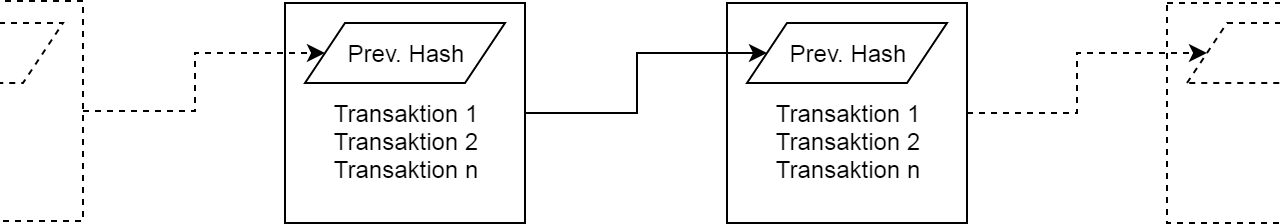
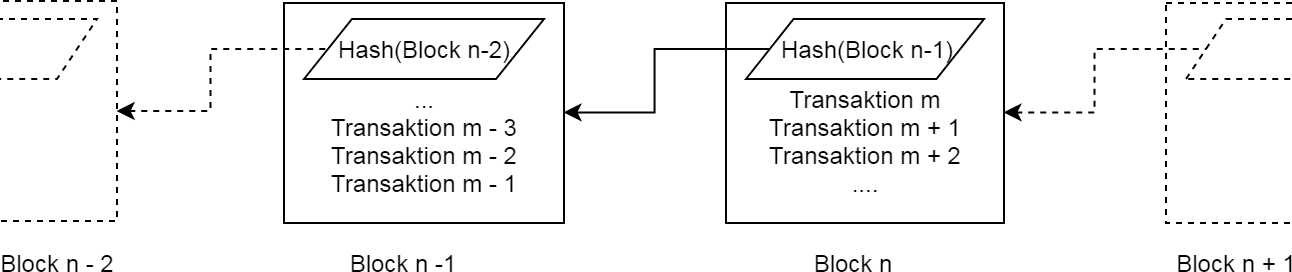
Updates from ShareLaTeX

diff --git a/022_blockchain.tex b/022_blockchain.tex
@@ -1,33 +1,41 @@
 \subsection{Blockchain}
 \label{sec:sota_blockchain}
 
-    Quellen: \cite{Dorri2016}\cite{Conoscenti2016}\cite{Greenspan2015}\cite{ISO307}\cite{Kshetri2017}\cite{Nakamoto2008}\cite{Underwood2016}\cite{Vukolic2016}\cite{Vukolic2017}\cite{Wuest2017}\cite{Zheng2017}
+    {\footnotesize Quellen: \cite{Dorri2016}\cite{Conoscenti2016}\cite{Greenspan2015}\cite{ISO307}\cite{Kshetri2017}\cite{Nakamoto2008}\cite{Underwood2016}\cite{Vukolic2016}\cite{Vukolic2017}\cite{Wuest2017}\cite{Zheng2017}}
     
-    \subsubsection{Einführung in das Konzept}
-    \label{sec:sota_blockchain_introduction}
     Eine Blockchain ist in ihrer Essenz eine immer länger werdende, unveränderbare, öffentliche Kette von Transaktionen, die dezentral gespeichert wird (s. \fref{fig:bc_highlvl}). 
-    
+    \smallskip
     \begin{figure}[H]
     	\centering
     	\includegraphics[width=\textwidth]{graphics/bc_highlvl.png}
-    	\caption{Abstrakte Darstellung einer Blockchain}
+    	\caption[Abstrakte Darstellung einer Blockchain]{Abstrakte Darstellung einer Blockchain. Jeder neu hinzugefügte Block (hier immer rechts angehängt) enthält eine Referenz auf den Vorigen mittels dessen Hashwert.}
     	\label{fig:bc_highlvl}
     \end{figure}
-    \noindent Erstmals 2008 von Satoshi Nakamoto, ursprünglich als Peer-to-Peer Electronic Cash System ,,Bitcoin`` (heute als eine sogenannte Kryptowährung bekannt) erfunden, fand die Technologie aufgrund ihrer Eigenschaften wie ihres dezentralen, anonymen Konzepts schnell viele Sympathisanten. 
+    \todo[color=yellow]{Transaktionen in m umbenennen (zu Hause}
+    \noindent Erstmals 2008 von Satoshi Nakamoto, ursprünglich als Peer-to-Peer Electronic Cash System ,,Bitcoin``
+    \!\footnote{Heute werden Bitcoin, Ether, Ripple und andere als digitale Zahlungsmittel als sogennante Kryptowährung bezeichnet} 
+    erfunden, erregte die Technologie aufgrund ihrer Eigenschaften wie ihres dezentralen, anonymen Konzepts schnell Aufmerksamkeit. 
     Bitcoin ist die erste populäre digitale Währung, die ohne zentrale Autorität wie beispielsweise einer \gls{ttp} das in \fref{sec:sota_doublespend} vorgestellte Double-Spending Problem lösen sollte\cite{Nakamoto2008}. 
-    Übertragen auf Bitcoin bedeutet es, dass ein Empfänger einer Transaktion sichergehen können muss, dass der vorige Besitzer den Bitcoin oder den Bruchteil dessen vorher nicht schon einmal an einen anderen Empfänger gesendet hat.
+    Übertragen auf Bitcoin bedeutet es, dass ein Empfänger einer Transaktion sichergehen können muss, dass der vorige Besitzer den Bitcoin oder den Bruchteil dessen vorher nicht schon einmal erfolgreicht an einen anderen Empfänger gesendet hat.
     Dies wird mittels kryptographischem Beweis, welcher im folgenden Abschnitt genauer betrachtet wird, anstatt des laut \citeauthor{Nakamoto2008} vorstellten mangelhaften Modells der \gls{ttp}, welche stets einen Single Point of Failure
     \!\footnote{Ein Single Point of Failure stellt beipsielsweise eine Bank im Zahlungsverkehr dar.
-    Fällt die Bank beispsielsweise aus irgendeinem Grund aus, haben deren Kunden keine Möglichkeit mehr Überweisungen von und zu ihren Konten zu tätigen.}
+    Fällt die Bank beispsielsweise aus irgendeinem Grund aus oder wird kompromittiert, haben deren Kunden keine Möglichkeit mehr sicher Überweisungen von und zu ihren Konten zu tätigen.}
     darstellt, gelöst. 
-    Das Konzept ermöglicht es somit zwei Entitäten, die sich gegenseitig nicht zwingend vertrauen müssen, um eine sichere (im Sinne der Vertraulichkeit) direkte Transaktion miteinander durchzuführen.
+    Das Konzept ermöglicht es somit zwei Entitäten, auch wenn sie sich gegenseitig nicht vertrauen, eine sichere (im Sinne der Vertraulichkeit) direkte Transaktion miteinander durchzuführen.
     
-    \noindent Grundlegend ist die Blockchain eine verteilte Datenstruktur, die zwischen den Mitgliedern eines Netzwerkes repliziert und geteilt wird\cite{Christidis2016}.
-    Die Knoten des Netzwerkes (genannt ,,Miner'`) fügen validierte, gegenseitig abgestimmte Transaktionen zwischen Teilnehmern, die zu Blöcken gebündelt werden.
-    Die Blockchain beinhaltet das maßgebliche ,,Hauptbuch'` von Transaktionen, welches im Endeffekt festlegt, wem was gehört.\todo[color=yellow]{meh}
-    Dieses ,,Hauptbuch'` ist ein Log, dessen Einträge mit Zeitstempeln jeweils als Blöcke zusammengefasst werden.
-    Das System ist so lange sicher, wie ,,ehrliche'` Knoten gemeinsam mehr Rechenleistung als eventuell zusammenarbeitende Angreifer haben\cite{Nakamoto2008}.
+    \subsubsection{Einführung in das Konzept}
+    \label{sec:sota_blockchain_introduction}
     
+    Grundlegend ist die Blockchain eine verteilte Datenstruktur, die zwischen den Mitgliedern eines Netzwerkes repliziert und geteilt wird\cite{Christidis2016}.
+    Die Blockchain beinhaltet das maßgebliche ,,Hauptbuch'` von vergangenen Transaktionen, ein Log, dessen Einträge mit Zeitstempeln jeweils zu unterschiedlichen Blöcken zusammengefasst werden. 
+    
+    Der aktuelle Zustand ergibt sich durch das Zurückverfolgen der einzelnen Transaktionen in der Blockchain. 
+    Es wird also kein aktueller Stand, welcher Teilnehmer des Netzwerks was besitzt, gespeichert. 
+    
+    Jeder Knoten des Netzwerkes (genannt ,,Miner'`) hat stets eine eigene Kopie der Blockchain und fügt validierte, gegenseitig abgestimmte Transaktionen zwischen Teilnehmern hinzu.
+    Später zu Blöcken gebündelt.
+    
+    Nutzer nehmen an dem Netzwerk über einen Knoten teil, wobei der Knoten auch für mehrere Nutzer einen Zugang bieten kann. 
     
     %% Transaktionen
     Getätigte Transaktionen sollen nicht mehr rückgängig gemacht werden können.
@@ -40,7 +48,6 @@
     Zuletzt benötigt der Empfänger des Coins einen Beweis, dass sich die Mehrheit der Konten zur Zeit der Transaktion einig waren, dass die aktuelle die erste entgegengenommene Transaktion des Coins ist. 
     \cite{Nakamoto2008}
     \todo[color=cyan]{timestamps?}
-    
     
     \subsubsection{Transaktionen}
     \label{sec:sota_blockchain_trx}
@@ -56,6 +63,14 @@
 	    Wie in \fref{fig:txio} dargestellt, werden Assets von einem Versender zu einem Empfänger transferiert, in dem der Sender einen Hash der vorigen Transaktion und den öffentlichen Schlüssel des Empfängers mit seinem eigenen privaten Schlüssel digital signiert und diese Hash dann am Ende des Assets anfügt.
 	    Transaktionen können zudem mehrere Ein- und Ausgaben haben\cite{Nakamoto2008}.
 	    Der Empfänger, sowie alle Teilnehmer des Netzwerkes können den Besitz des Assets über die Kette der digitalen Signaturen zurückverfolgen\cite{Nakamoto2008}.
+	    
+	    Every signed transaction is broadcasted by a user’s node to its one-hop peers\cite{Christidis2016}
+	    
+	    The neighboring peers make sure this incoming transaction is valid before relaying it any further; invalid transactions are discarded. Eventually this transaction is spread across the entire network\cite{Christidis2016}
+	    
+	    The transactions that have been collected and validated by the network using the process above during an agreed-upon time interval, are ordered and packaged into a timestamped candidate block. This is a process called mining. The mining node broadcasts this block back to the network. (The choice of the mining node and the contents of the block depend on the consensus mechanism that the network employs. Refer to Section II-B for more information.)
+	    The nodes verify that the suggested block (a) contains valid transactions, and (b) references via hash the correct previous block on their chain. If that is the case, they add the block to their chain, and apply the transactions it contains to update their world view. If that is not the case, the proposed block is discarded. This marks the end of a round.\cite{Christidis2016}
+	    
     
     \begin{figure}[H]
         \missingfigure[figheight=4cm]{Bild mit Transaktion}
@@ -78,8 +93,12 @@
     
     \subsubsection{Sicherheit}
     \label{sec:sota_blockchain_security}
+        Das System ist so lange sicher, wie ,,ehrliche'` Knoten gemeinsam mehr Rechenleistung als eventuell zusammenarbeitende Angreifer haben\cite{Nakamoto2008}
         Byzantine Fault Tolerance
         Consensus Algorithms
+        \begin{itemize}
+            \item Users interact with the blockchain via a pair of private/public keys [13]. They use their private key to sign their own transactions, and they are addressable on the network via their public key.2 The use of asymmetric cryptography brings authentication, integrity, and nonrepudiation into the network\cite{Christidis2016}
+        \end{itemize}
     
     \subsubsection{Identity Management}
     \label{sec:sota_blockchain_identitymgmnt}

diff --git a/021_doublespend.tex b/021_doublespend.tex
@@ -1,9 +1,9 @@
 \subsection{Double-Spending Problem}
 \label{sec:sota_doublespend}
-	Das Double Spending Problem beschreibt die Möglichkeit den selben digitalen Token als Käufer eines Guts mehrmals auszugeben\cite{Chohan2017}.
-	Die Gefahr kommt daher, da ein Token, der häufig aus einer Datei besteht, die dupliziert und gefälscht werden könnte\cite{Chohan2017}.
+	Das Double Spending Problem beschreibt die Möglichkeit den selben digitalen Token, welcher als Gegenwert einem Käufer dem Kauf eines (digitalen) Guts dient, mehrmals auszugeben\cite{Chohan2017}.
+	Die Gefahr kommt daher, da ein Token beispielsweise als eine Datei repräsentiert wird, welche dupliziert und gefälscht werden könnte\cite{Chohan2017}.
 	Der Empfänger einer Transaktion kann die Echtheit und eventuell mit dem Token bereits getätigte Transaktionen im Normalfall nicht verifizieren\cite{Nakamoto2008}.
 	Daher wird häufig eine \gls{ttp}, zum Beispiel von einer sogenannten Mint (primärer Produzent der Währung) übernommen zur Prüfung der Transaktion herangezogen\cite{Nakamoto2008}.
 	Somit muss der Token zur Überprüfung an die Mint zurückgegeben werden. 
-	Dieser erzeugt einen neuen Token und gibt diesen an den Verkäufer weiter.
+	Diese erzeugt einen neuen Token und gibt diesen an den Verkäufer weiter.
 	Einzig diesem neuen Token kann vertraut werden, dass er nicht mehrfach genutzt wurde\cite{Nakamoto2008}.

diff --git a/vorlage_ba.tex b/vorlage_ba.tex
@@ -86,7 +86,7 @@
 \usepackage[plain,german]{fancyref}
 \usepackage{nameref}
 \usepackage{xcolor}
-\usepackage[colorinlistoftodos,textsize=scriptsize,textwidth=2cm]{todonotes}
+\usepackage[colorinlistoftodos,textsize=tiny,textwidth=2cm]{todonotes}
 \usepackage{realboxes}
 
 \reversemarginpar
@@ -210,7 +210,6 @@
     \input{020_state_of_the_art}
     %\include{0211_notes_bc}
     \input{021_doublespend}
-    \input{022_bft}
     \input{022_blockchain}
     \input{023_iot}
     \input{024_smart_locks}

diff --git a/025_security_analysis.tex b/025_security_analysis.tex
@@ -60,7 +60,7 @@ if(Scope == Changed)
         Low               & 0.1 - 3.9                   \\ \hline
         \rowcolor{orange}
         Medium            & 4.0 - 6.9                   \\ \hline
-        \rowcolor{red}
+        \rowcolor{RedOrange}
         High              & 7.0 - 8.9                   \\ \hline
         \rowcolor{red}
         Critical          & 9.0 - 10.0                  \\ \hline
